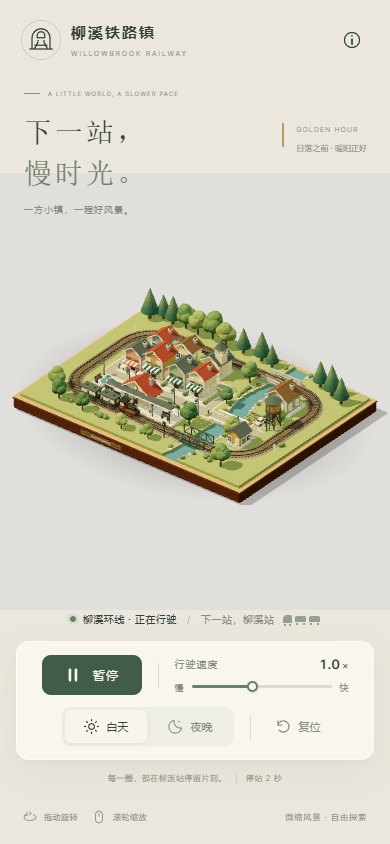
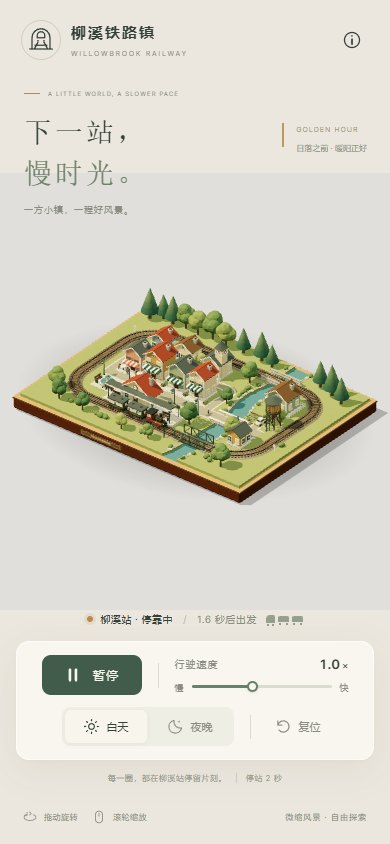
Improve the result intake workflow

Changed region(s): [[0.5231, 0.7085, 0.8308, 0.7393], [0.2154, 0.4313, 0.4308, 0.5237], [0.2154, 0.7085, 0.4615, 0.7393]]

diff --git a/site/result-previews.js b/site/result-previews.js
@@ -5,8 +5,11 @@ import { readModel } from './preview-model.js';
 
 export function createResultPreviews(root, task) {
   const abort = new AbortController(), { signal } = abort;
+  const mobile = matchMedia('(max-width: 640px)').matches;
+  const parallelLoads = mobile ? 2 : 3;
+  const cacheLimit = mobile ? 6 : 9;
   const renderer = new THREE.WebGLRenderer({ alpha: true, antialias: true });
-  renderer.setPixelRatio(Math.min(devicePixelRatio, 1.5));
+  renderer.setPixelRatio(Math.min(devicePixelRatio, mobile ? 1 : 1.5));
   renderer.setClearColor(0x000000, 0);
   renderer.outputColorSpace = THREE.SRGBColorSpace;
   renderer.toneMapping = THREE.ACESFilmicToneMapping;
@@ -106,7 +109,7 @@ export function createResultPreviews(root, task) {
     setStatus(entry, 'ready'); requestRender();
     // Keep nearby models interactive without retaining every large scene in RAM.
     const cached = entries.filter((entry) => entry.scene);
-    for (const old of cached.filter((entry) => !entry.nearby).slice(0, Math.max(0, cached.length - 9))) {
+    for (const old of cached.filter((entry) => !entry.nearby).slice(0, Math.max(0, cached.length - cacheLimit))) {
       disposeObject(old.scene); old.scene = null;
     }
   }
@@ -127,12 +130,12 @@ export function createResultPreviews(root, task) {
     stopLoader(job); pump();
   }
   function pump() {
-    if (destroyed || paused || document.hidden || loading.size >= 3) return;
+    if (destroyed || paused || document.hidden || loading.size >= parallelLoads) return;
     const pending = entries.filter((entry) => entry.nearby && !entry.scene && !loading.has(entry) && entry.card.dataset.previewState !== 'error' && !entry.card.hidden)
       .map(entry => ({ entry, rect: entry.element.getBoundingClientRect() }))
       .sort((a, b) => Number(a.rect.top >= innerHeight || a.rect.bottom <= 0) - Number(b.rect.top >= innerHeight || b.rect.bottom <= 0) || a.rect.top - b.rect.top || a.rect.left - b.rect.left);
     for (const { entry } of pending) {
-      if (loading.size >= 3) break;
+      if (loading.size >= parallelLoads) break;
       // Baked models load in parallel. Keep procedural fallback generation serial.
       if (!entry.result.previewModel && [...loading.values()].some(job => job.iframe)) continue;
       const job = { entry }; loading.set(entry, job);
@@ -179,13 +182,16 @@ export function createResultPreviews(root, task) {
     frame = 0;
     if (destroyed || paused || document.hidden) return;
     const dt = Math.min(0.05, (time - lastTime) / 1000 || 0.016); lastTime = time;
-    let moving = false;
+    let moving = false, deferred = false, rendered = 0;
+    const started = performance.now();
     for (const entry of entries) {
       if (!entry.scene || entry.card.hidden || !entry.nearby) continue;
       const rect = entry.element.getBoundingClientRect();
       if (rect.bottom < 0 || rect.top > innerHeight || !rect.width) continue;
       const changed = Math.abs(entry.targetX - entry.x) + Math.abs(entry.targetY - entry.y) > 0.0001;
       if (!entry.dirty && !changed) continue;
+      // Spread first paint / resize uploads across frames to leave room for input.
+      if (rendered && performance.now() - started >= 8) { deferred = true; break; }
       moving ||= changed;
       const follow = 1 - Math.exp(-dt * 9);
       entry.x += (entry.targetX - entry.x) * follow; entry.y += (entry.targetY - entry.y) * follow;
@@ -204,8 +210,9 @@ export function createResultPreviews(root, task) {
       entry.context.clearRect(0, 0, entry.canvas.width, entry.canvas.height);
       entry.context.drawImage(renderer.domElement, 0, 0);
       entry.card.classList.add('has-model-preview'); entry.dirty = false;
+      rendered++;
     }
-    if (moving) requestRender();
+    if (moving || deferred) requestRender();
   }
   return {
     refresh,

diff --git a/docs/intake-workflow.md b/docs/intake-workflow.md
@@ -1,0 +1,109 @@
+# 作品收录流程
+
+适用于新作品、新模型、新题目及已有作品更新。按顺序执行；截图与卡片模型包是收录交付的一部分。
+
+## 1. 核对交付与去重
+
+- 确认题目、提示词原文、模型名称、版本、推理档位、交付日期及来源。
+- 先查 `results/manifest.json` 和 `gallery.json`，再比对已有源码或静态资源。相同交付复用已有记录；不同版本、推理档位或实际不同的实现分别登记，不能仅凭文件夹名称判断重复。
+- 不确定的厂商、版本与提示词差异明确记录，不猜测。来源及大批导入对应关系写入 `docs/`，单份作品情况写入作品 README。
+
+## 2. 整理必要项目文件
+
+| 保留 | 清理 |
+| --- | --- |
+| 核心源码、入口、实际引用的图片/字体/模型/着色器 | `node_modules/`、构建缓存、`.vite/`、`__pycache__/` |
+| `package.json`、构建配置、必要工具脚本 | 原交付的测试、浏览器报告、验证目录、临时脚本 |
+| README、LICENSE、第三方许可与素材署名 | 日志、录屏、临时截图、备份副本、ZIP 压缩包 |
+| 封面、正式展示截图 | 重复锁文件、无法复现的机器绝对路径配置 |
+| 仅有已构建页面的交付：`index.html`、`assets/` 等原始静态资源 | 可重新生成的 `dist/`（不要误删静态交付唯一的原始资源） |
+
+先核对代码、构建脚本和元数据引用，再删除不需要的文件。静态交付按现有 `build-static-result.mjs` 复制构建，README 写明没有原始源码。根 `package-lock.json` 统一维护工作区依赖；构建或运行确实需要的脚本必须保留。
+
+本地依赖和 `dist/` 是工作工具，不提交。操作结束后清理本次产生的 `output/`、`.playwright-cli/` 和日志；不能使用无差别的 `git clean -fdx`，不能删除仍被其他进程使用的目录或桌面原始交付。
+
+## 3. 登记作品、模型与品牌
+
+- 建筑项目放 `results/<id>/`，其他题目放 `results/<task>/<id>/`；包名唯一，`build` 脚本可从仓库工作区运行。
+- 在 manifest 填写 `id`、`task`（建筑原有布局省略）、`model`、`modelId`（模型与作品 ID 不同时）、`effort`、`title`、`description`、`cover`、带时区的 `addedAt`。注册表中的模型 ID 在不同题目与档位之间复用。
+- 新模型核对 `gallery.json` 中的 `name`、`vendor`、`logo`、`brandName`、`brandUrl`。同厂商可复用已有本地 Logo；新厂商从官方页面取标识，在 `site/assets/brands/README.md` 记录来源页面、原始资源 URL 和取得日期。
+- 目视检查 Logo 可显示，透明背景在明暗主题下均清楚，品牌链接正确。厂商待确认时保留 `vendorNote`，不能把临时归类说成官方确认。
+- README 写明模型、档位、来源、运行与构建方式、已知差异、实际验证范围。同步更新主 README 的作品目录与数量。
+- 新题目先建提示词与 `task.json`，加入根 `workspaces`；配置 `first` 为 1440×900、`mobile` 为 390×844，题目 ID、结果 ID、模型 ID 各自保持一致。
+
+## 4. 安装与构建
+
+```bash
+npm install
+npm run check
+npm run build
+npm run preview -- --host 127.0.0.1 --port 4173
+```
+
+核对作品直接入口 `/results/.../`、画廊详情、截图对照与源码链接。检查资源相对路径，确保 GitHub Pages 的仓库子路径可用；留意运行时外部 CDN 请求、缺失资源和控制台报错。原作需要最小兼容修复时在 README 说明，不为了统一截图而改变作品默认布局、画质或交互。
+
+## 5. 补齐桌面与手机截图
+
+预览服务保持运行，在另一个终端执行：
+
+```bash
+# 默认只补缺失图片，使用本机 Chrome
+npm run capture:results -- --task=miniature-railway-town --id=astra-pro
+
+# 作品更新后重拍两种首屏
+npm run capture:results -- --task=miniature-railway-town --id=astra-pro --force
+```
+
+脚本使用全新浏览器上下文、DPR 1、浅色系统主题、默认页面状态，手机模式启用触屏。等待页面加载与字体就绪后再等待 3500 ms，保存为 `tasks/<task>/captures/<id>/first.jpg` 与 `mobile.jpg`；不隐藏 UI、不点击按钮、不使用封面代替首屏。
+
+可使用 `--condition=first` 或 `--condition=mobile`、`--wait=6000`、`--url=http://127.0.0.1:4173/`。慢速场景加长等待并在 README 或 `captureNote` 中注明；URL 可含部署子路径。无 Chrome 时运行 `npx playwright install chromium` 并传 `--browser=chromium`。
+
+每张新图都要目视核对：场景已出现、没有加载遮罩/空白/报错，桌面控件完整，手机界面没有明显截断；作品本身有问题时如实说明。关键交互（例如旋转、昼夜或产品配置）检查一项即可按实际范围记录，不能凭截图宣称功能全通过。脚本失败会以非零状态退出，不能直接跳过失败项。
+
+## 6. 生成并优化卡片小模型
+
+```bash
+npm run bake:previews -- --task=miniature-railway-town --id=astra-pro
+```
+
+打开终端显示的本地生成页，点击「开始生成」，确认成功且失败数为 0。已有提取模型更新时加 `--force`；导入的九份原始模型包受到保护，`--force` 不覆盖它们，原始包需要随新的交付显式替换。完成后执行：
+
+```bash
+node scripts/assemble.mjs
+```
+
+模型包保存在 `site/assets/scenes/<task>/<id>.sbox` 并提交。生成流程复用现有远景简化、体素合并、属性量化和小尺寸纹理；不能把完整原作动画和重建工作放到普通卡片加载中。
+
+检查卡片主体、颜色、透明材质、底座、取景范围；特别留意天空/巨型地面/闲置粒子把作品缩得过小。核对桌面鼠标转动、手机滚动及切换题目；静止时停止绘制，离屏模型可回收。单包超过 3 MiB 时检查手机加载与交互，阈值只提示人工检查，不是统一质量评分。预览失败时优先修复提取或模型包，不修改原作降低展示质量。
+
+## 7. 收录检查与提交
+
+```bash
+npm run check:intake -- --task=miniature-railway-town --id=astra-pro
+npm run check:intake
+npm run check
+npm run build
+git diff --check
+```
+
+检查命令核对登记、包名、必要文件、两种截图、Logo 文件与来源记录，以及可解压、非空且已压缩的模型包；也检查已跟踪作品目录中的临时文件。厂商待确认、大模型包以警告提示人工处理。文件检查不能替代构建和目视检查，也不会自动删除文件。
+
+确认新资源都已加入 Git，检查变更范围，清理本次临时产物，用英文简单句提交一条 commit。GitHub Actions 会在发布前运行收录检查；推送或发布按用户授权执行。
+
+### 完成清单
+
+- [ ] 已去重，题目、模型、档位、来源与时间正确
+- [ ] 仅保留必要项目资源，许可与署名保留
+- [ ] 包名唯一，依赖与构建可复现，静态子路径可用
+- [ ] 桌面与手机真实首屏齐全，已逐张目视检查
+- [ ] 模型已注册，本地厂商 Logo 与来源记录齐全
+- [ ] 卡片模型包已生成、压缩并核对，手机滚动无明显阻塞
+- [ ] README、作品数量、目录及实际验证说明已同步
+- [ ] 检查与构建通过，临时产物已清理，已提交 Git
+
+## 本次存量核对（2026-09-26）
+
+- 63 份作品已有手机截图和模型包；补齐建筑 26 份、铁路 13 份桌面首屏，共 39 张，逐张目视核对场景和界面；重新拍摄铁路 Astra Pro 手机首屏，核对手机模式截图。
+- 31 个模型的本地 Logo 文件与来源记录齐全；Space-bunny 的厂商仍待确认。Sonnet 5.5 Max（4.17 MiB）与 Fable 5.1 Max（5.80 MiB）模型包触发体积提示，保留人工性能复核。
+- 63 个工作区完整构建及语法检查通过；收录检查为 0 错误、3 警告。曾缺少的 39 张首屏均被检查命令正确报出。
+- 本地 Chrome 检查三道题目的首批卡片及手机尺寸下建筑卡片滚动：模型正常显示，无卡片加载错误、无页面脚本错误、无重新建模 iframe。这是浏览器集成检查，不是实际手机帧率测试或全部作品交互验证。

diff --git a/README.md b/README.md
@@ -28,6 +28,8 @@ npm run dev
 | `npm run build` | 构建全部作品并汇总站点到 `dist/` |
 | `npm run preview` | 预览已构建的主站，默认地址为 `http://localhost:4173` |
 | `npm run check` | 检查画廊页面和汇总脚本的 JavaScript 语法 |
+| `npm run check:intake` | 核对必要文件、元数据、桌面/手机截图、厂商 Logo 与卡片模型包 |
+| `npm run capture:results` | 在已运行的预览服务上补齐缺失的桌面和手机首屏截图 |
 | `npm run dev:opus` | 单独启动 Opus 建筑作品的开发服务 |
 
 ### 单独开发一份作品
@@ -52,7 +54,7 @@ npm run build --workspace=keyboard-gpt-6-sol-max
 
 作品卡片以对应的真实三维模型预览，鼠标移动可轻微转动模型；静止时暂停绘制。「截图对照」继续显示原有静态截图。
 
-全部 63 份作品已有预先生成的模型包，打开卡片直接读取模型，省去运行原作、重新合并与简化的等待。可见卡片优先加载，最多并行读取 3 份；预览用位置、颜色、法线与纹理按卡片尺寸压缩，完整原作保留原始精度。
+全部 63 份作品已有预先生成的模型包，打开卡片直接读取模型，省去运行原作、重新合并与简化的等待。可见卡片优先加载，桌面最多并行读取 3 份，手机最多 2 份；手机降低绘制像素密度和离屏缓存，多张卡片分帧绘制。预览用位置、颜色、法线与纹理按卡片尺寸压缩，完整原作保留原始精度。
 
 在作品卡片上选中两件作品，点击底部对比栏即可并排查看。在线预览支持使用 ← / → 或顶栏按钮切换作品，操作指南可按需展开。中式建筑题目还支持多件作品的三维沙盘与原作展厅。
 
@@ -176,7 +178,7 @@ npm run build --workspace=keyboard-gpt-6-sol-max
 
 ## 截图与收录范围
 
-全部 58 份作品均有 390 × 844 手机界面截图。键盘题的 10 份作品均有 1440 × 900 默认首屏截图；建筑题有 5 份、铁路题有 4 份作品提供独立首屏截图，其余首屏使用项目预览图。具体截图条件见各题目的 `task.json` 和页面标注。
+全部 63 份作品均有独立的 1440 × 900 桌面默认首屏和 390 × 844 手机界面截图。具体截图条件见各题目的 `task.json` 和页面标注。
 
 截图与构建检查用于展示实际效果、确认画廊集成，不代表提示词中的全部功能或交互均已验证。技术栈来自项目依赖，源码与构建体积由汇总脚本统计。
 
@@ -213,11 +215,14 @@ dist/                                构建产物，不提交到主分支
 
 ## 添加作品
 
-1. **放入项目。** 建筑题使用 `results/<结果标识>/`，铁路与键盘题使用 `results/<题目标识>/<结果标识>/`。提供 `package.json`、`build` 脚本和 README；工作区包名必须唯一。结果标识使用小写字母、数字、点和连字符。
-2. **登记元数据。** 在 [results/manifest.json](results/manifest.json) 添加 `id`、`model`、`title`、`description`、`cover`、`addedAt`。铁路与键盘作品填写 `task`；未填写时归入建筑题。`cover` 为项目内的相对图片路径，建议放在 `docs/`。`addedAt` 使用带时区的 ISO 8601 时间，例如 `2026-09-26T12:00:00+10:00`；缺少时间的作品排在最后。不同推理档位使用不同结果标识，并填写共同的 `modelId` 与各自的 `effort`。
-3. **登记模型。** 新模型加入 [gallery.json](gallery.json)，填写名称、厂商与品牌标识；已有模型复用注册表中的模型 ID。同一模型可以在不同题目下复用结果标识。
-4. **补充截图与说明。** 将题目条件对应的截图放在 `tasks/<题目标识>/captures/<结果标识>/<条件标识>.jpg`，如 `first.jpg`、`mobile.jpg`。README 写明模型、推理档位、运行方式、提示词差异及实际验证范围，并更新本文作品目录。
-5. **构建核对。** 在仓库根目录运行 `npm install`、`npm run check` 和 `npm run build`，通过 `npm run preview` 检查作品入口与截图。构建结果位于 `dist/results/`，站点数据位于 `dist/data.json`。
+完整操作与完成清单见 [作品收录流程](docs/intake-workflow.md)，仓库 [AGENTS.md](AGENTS.md) 也引用此流程。
+
+1. **核对与整理。** 先确认题目、模型、档位、来源和重复交付；保留核心源码或静态交付、依赖配置、README、许可与展示资源，清理交付内的临时测试、日志、缓存和备份。
+2. **登记作品。** 建筑题使用 `results/<结果标识>/`，其他题目使用 `results/<题目标识>/<结果标识>/`。提供唯一工作区包名与 `build` 脚本。在 [manifest](results/manifest.json) 填写题目、模型、档位、标题、描述、封面和带时区的 `addedAt`；不同档位复用共同 `modelId`。
+3. **核对品牌。** 新模型加入 [模型注册表](gallery.json)，已有模型复用 ID。确认本地厂商 Logo、品牌名称、官网链接和[标识来源记录](site/assets/brands/README.md)齐全；身份待确认时明确标注。
+4. **构建与截图。** 执行 `npm install`、`npm run check`、`npm run build`，启动 `npm run preview`。运行 `npm run capture:results -- --task=<题目标识> --id=<结果标识>` 补齐桌面与手机真实首屏，逐张目视检查。截图保存在 `tasks/<题目标识>/captures/<结果标识>/`；已有作品改动后加 `--force` 重拍。
+5. **生成小模型。** 运行 `npm run bake:previews -- --task=<题目标识> --id=<结果标识>`，在本地生成页完成生成，再执行 `node scripts/assemble.mjs`。核对主体取景、材质与手机滚动；模型包随代码提交。
+6. **检查与提交。** 更新作品 README 和本文目录、数量，运行 `npm run check:intake`、`npm run check` 与 `npm run build`，检查页面与静态子路径。清理本次临时产物，用英文简单句提交一条 Git commit。
 
 添加新题目时，先创建 `tasks/<题目标识>/task.json` 与提示词文件，配置标题、日期、标签、截图条件和事实字段；同日题目可用 `order` 指定先后顺序。在根 `package.json` 的 `workspaces` 中加入 `results/<题目标识>/*`，再按上述步骤收录作品。
 
@@ -225,8 +230,8 @@ dist/                                构建产物，不提交到主分支
 
 新增或修改作品模型后，先完成构建，再运行 `npm run bake:previews`，打开终端显示的 [本地生成页](http://localhost:5174/__bake/)，点击「开始生成」。生成完成后执行 `node scripts/assemble.mjs`，把模型包汇入主站。生成页只在本地运行，不发布到主站。
 
-默认只生成缺少模型包的作品；`npm run bake:previews -- --force` 重新生成仓库内提取的模型包，压缩包导入的九份原始模型包保留。生成结果位于 `site/assets/scenes/<题目标识>/`，随代码提交。未生成模型包的新作品仍可使用原作提取方式预览。处理方式与验证记录见[预览加载优化](docs/preview-loading.md)。
+默认只生成缺少模型包的作品；可以用 `--task=<题目标识> --id=<结果标识>` 仅处理本次作品。`npm run bake:previews -- --force` 重新生成仓库内提取的模型包，压缩包导入的九份原始模型包保留。生成结果位于 `site/assets/scenes/<题目标识>/`，随代码提交。开发期间保留原作提取回退，正式收录检查要求模型包齐全。处理方式与验证记录见[预览加载优化](docs/preview-loading.md)。
 
 ## 发布
 
-[GitHub Actions 工作流](.github/workflows/deploy-pages.yml)在推送到 `main` 或手动触发时执行依赖安装、语法检查和完整构建，将 `dist/` 发布到 `gh-pages` 分支。GitHub Pages 需配置为从该分支的根目录提供站点。
+[GitHub Actions 工作流](.github/workflows/deploy-pages.yml)在推送到 `main` 或手动触发时执行依赖安装、语法检查、收录检查和完整构建，将 `dist/` 发布到 `gh-pages` 分支。GitHub Pages 需配置为从该分支的根目录提供站点。

diff --git a/docs/preview-loading.md b/docs/preview-loading.md
@@ -33,3 +33,9 @@
 修复后逐行核对了全部 17 份铁路卡片：均已加载并显示完整沙盘，主体占用空间接近，未发现空白或被放大截断的卡片。生成成功 17 份，失败 0 份。
 
 仅重新生成铁路模型可用 `npm run bake:previews -- --force --task=miniature-railway-town`，完成后执行 `node scripts/assemble.mjs`。此规则只用于铁路卡片，完整原作、建筑沙盘和截图界面不修改。
+
+## 收录与手机预览
+
+收录检查现在要求每份作品具有可读取、非空的模型包；第二版提取包还必须完成压缩。超过 3 MiB 的包提示人工核对手机加载，不作为统一性能评分。生成命令支持 `--id=<结果标识>`，结合 `--task` 可只处理新增或更新的单份作品。
+
+手机卡片预览并发从 3 降为 2，像素密度最高为 1，离屏模型缓存目标从 9 降为 6；桌面保留原配置。首次绘制和尺寸调整时，每帧在绘制至少一张卡片后检查 8 ms 时间预算，剩余卡片留到后续帧，减少同一帧集中上传与绘制。单张复杂模型仍可能超出预算，需要结合模型大小和实际手机体验判断。

diff --git a/AGENTS.md b/AGENTS.md
@@ -1,0 +1,7 @@
+# 仓库工作约定
+
+- 不要过度设计防御或测试。完成实现或修改后，用英文简单句提交一条 Git commit。
+- 收录和更新作品时按 [收录流程](docs/intake-workflow.md) 执行，保留必要项目文件、许可和展示资源，移除交付中的临时测试与缓存。
+- 收录完成前必须构建作品，补齐真实桌面与手机首屏截图，生成并检查卡片模型包，核对模型注册和厂商 Logo 来源。
+- 修改原作后的截图与模型包同步更新；仅调整主站时无需重新生成全部作品资源。
+- 运行 `npm run check`、`npm run check:intake`、`npm run build`，目视核对本次影响的页面，然后提交。不要把“构建通过”写成“全部交互已验证”。
